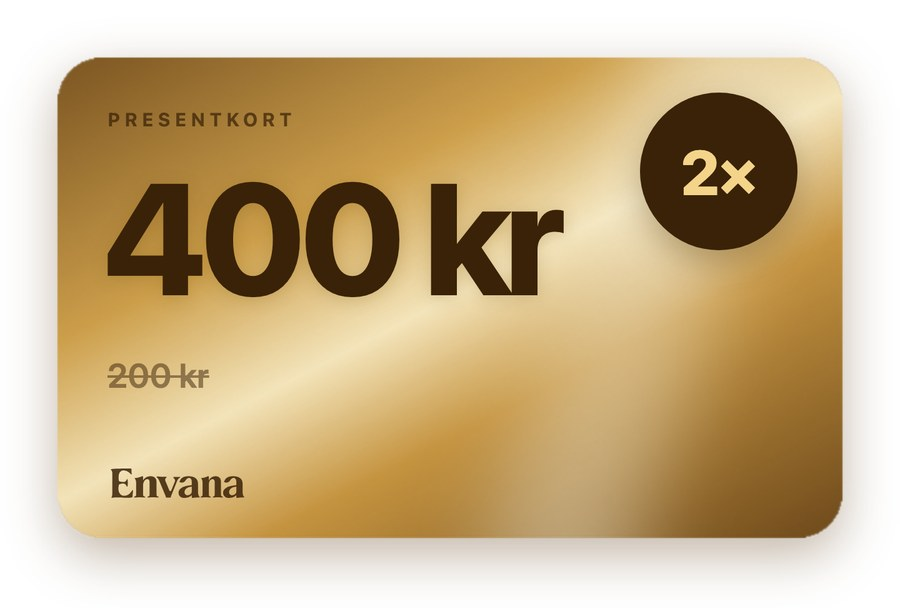
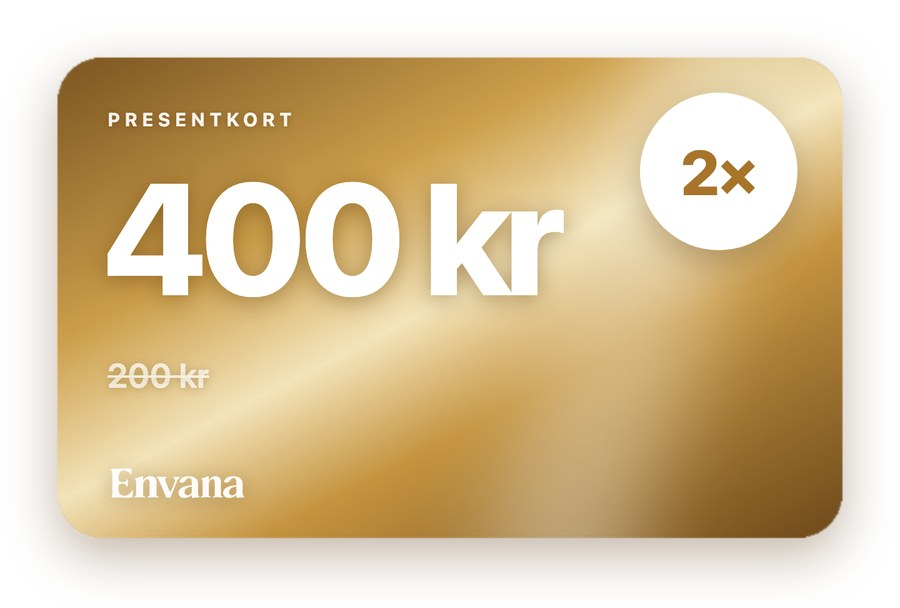
forms: vit text pa guldkortet, och Williams copy pa samtyckesskarmen
Kortet behaller sin guldton och far vit text med samma skugga som
terrakottaversionen hade, plus vit 2x-bricka med guldbrun siffra.

Copyn ar Williams val, en sammanslagning av tva av forslagen:
  "Vill du inspirera nagon annan?"
  "Det ar precis sadana bilder nagon annan behover se innan hon vagar borja.
   Far vi visa dina dubblar vi ditt presentkort."
  Ja, dubbla till 400 kr / Envana far anvanda mina bilder
  Nej tack, behall 200 kr
  "Vi kan komma att anvanda dem i var marknadsforing. Du kan andra dig nar som
   helst genom att skicka ett mejl till oss."

Skarmen sager medvetet INTE "bevis pa att kollagen funkar". Hennes bilder ar
hennes upplevelse, inte bevis, och ett effektpastaende om ett kosttillskott hor
inte hemma pa en samtyckesskarm. Kanslan bars av personen i stallet.

diff --git a/scripts/seed-progressbild-form.ts b/scripts/seed-progressbild-form.ts
@@ -281,9 +281,9 @@ const progressbild: FormConfig = {
       kind: "info",
       key: "samtycke_rubrik",
       showWhen: { field: "steg", in: ["3"] },
-      html: `<h2 class="chf-slide-title chf-mid">Vill du dubbla det?</h2>
+      html: `<h2 class="chf-slide-title chf-mid">Vill du inspirera någon annan?</h2>
 <figure class="chf-shot" style="margin:6px 0 2px"><div class="chf-shot-frame"><img src="{{hub}}/images/progressbild/presentkort-400.webp" alt="Presentkort pa 400 kronor" width="900" height="608" loading="eager"></div></figure>
-<p class="chf-slide-sub chf-mid" style="margin:14px 0 0">Får vi använda dina bilder? Då blir det 400 kr i stället för 200.</p>`,
+<p class="chf-slide-sub chf-mid" style="margin:14px 0 0">Det är precis sådana bilder någon annan behöver se innan hon vågar börja. Får vi visa dina dubblar vi ditt presentkort.</p>`,
     },
     // Valet ar TVA KNAPPAR, inte en kryssruta. William: "spelen gor det
     // LOCKANDE att klicka pa 2x reward". En kryssruta ar en blankett man
@@ -294,7 +294,7 @@ const progressbild: FormConfig = {
       kind: "info",
       key: "samtycke_villkor",
       showWhen: { field: "steg", in: ["3"] },
-      html: `<p class="chf-privacy" style="margin:14px 0 0">Vi kan komma att använda dem i vår marknadsföring, eller inte alls. Du kan ändra dig när som helst, mejla oss så tar vi bort dem.</p>`,
+      html: `<p class="chf-privacy" style="margin:14px 0 0">Vi kan komma att använda dem i vår marknadsföring. Du kan ändra dig när som helst genom att skicka ett mejl till oss.</p>`,
     },
         {
       kind: "choice",
